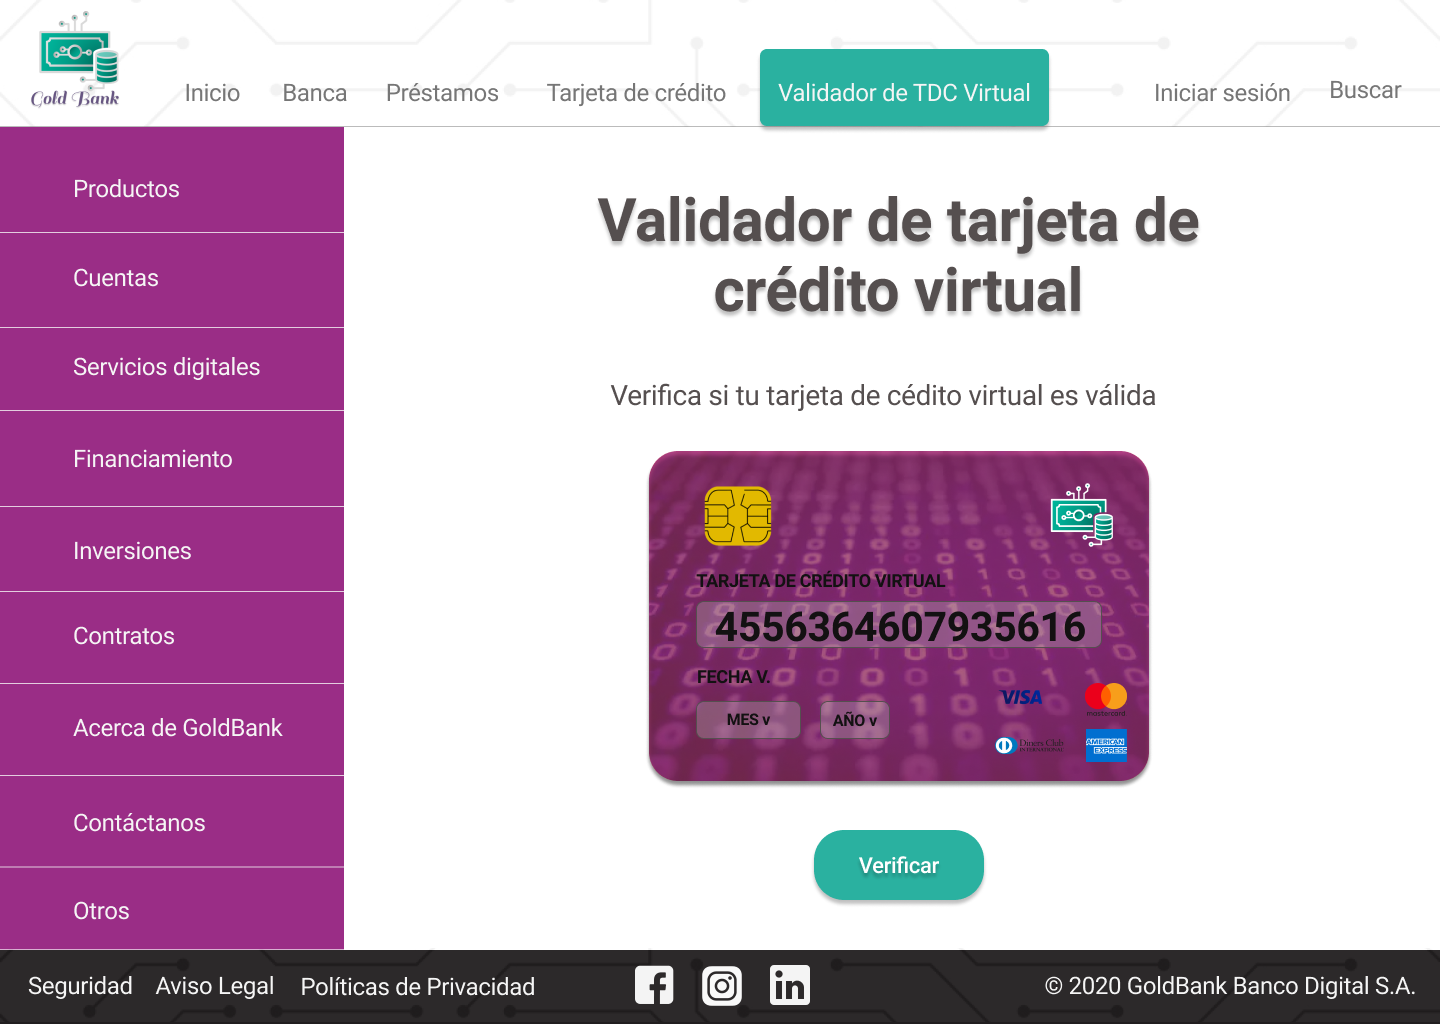
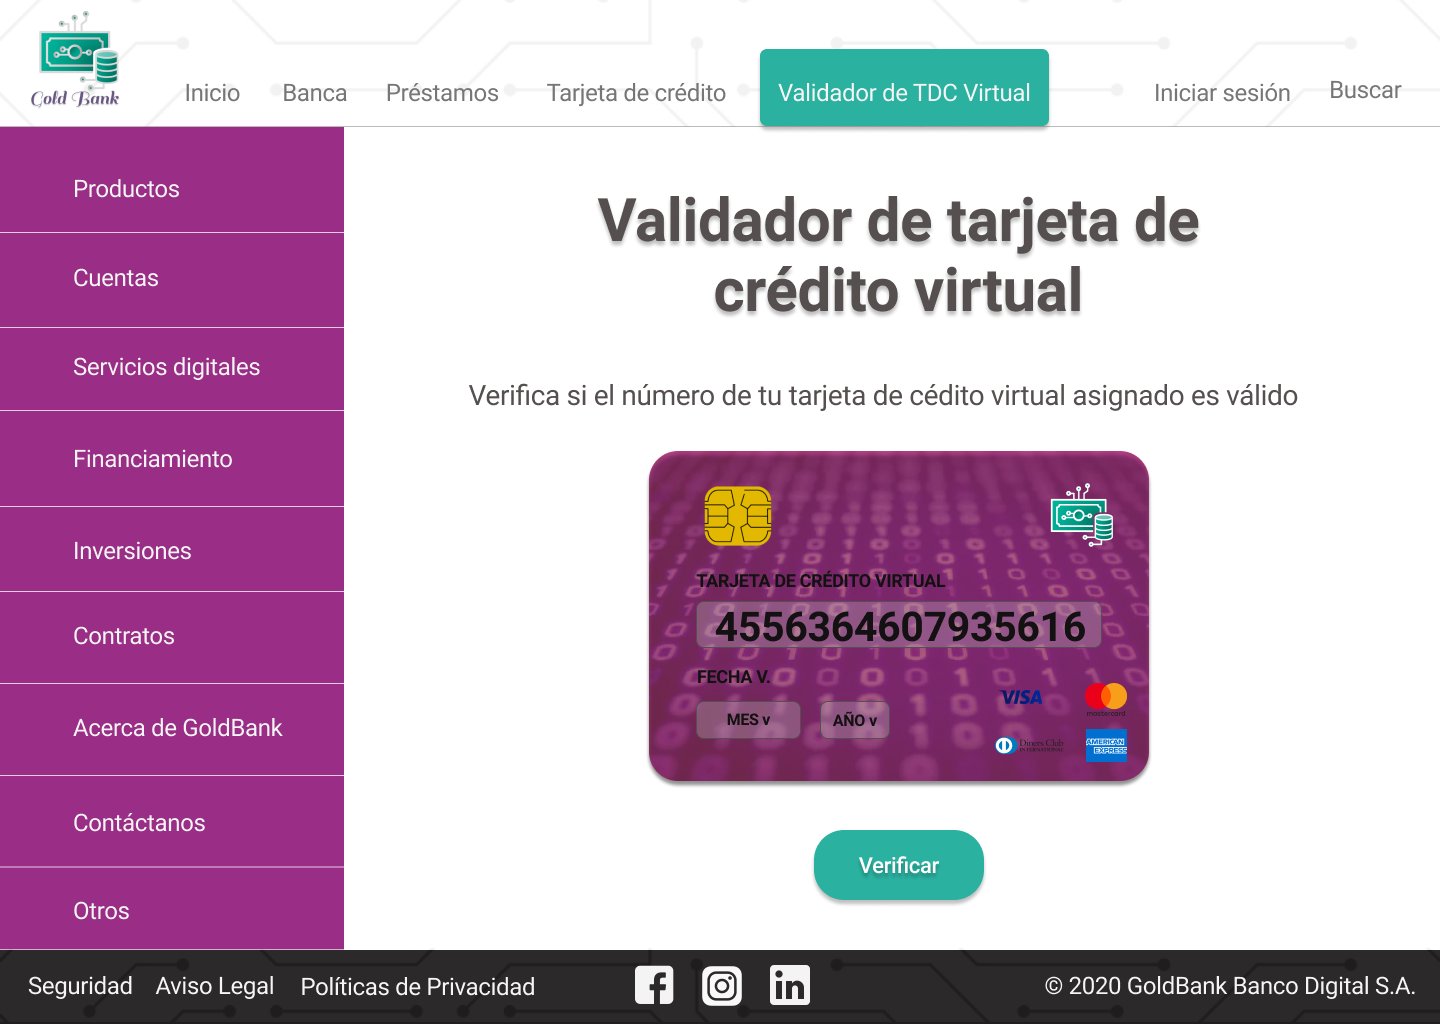
foto prototipo en papel readme

Changed region(s): [[0.3125, 0.375, 0.9062, 0.4062]]

diff --git a/src/index.html b/src/index.html
@@ -46,7 +46,7 @@
       </div>
       <h1 class="validatorTDC">Validador de Tarjeta de Crédito Virtual</h1>
       <article id="mainScreen">
-        <h4 class="verify">Verifica si tu TDC Virtual es válida</h4>
+        <h4 class="verify">Verifica si el número de tu TDC Virtual asignado es válido</h4>
         <div class="card">
           <div class="img-card">
             <img class="chip" src="./img/chip.png" alt="chip" />

diff --git a/README.md b/README.md
@@ -16,7 +16,7 @@ Además evita errores al vincular el número generado automáticamente por el si
 
 Le brinda al usuario completa libertad y autonomía al gestionar su tarjeta de credito en la página web.
 
-**Luego colocarás la foto de tu primer prototipo en papel.**
+![Imagen final del proyecto](./img_readme/prototipo.jpg)
 
 Mi primer enfoque en la solución de éste problema se desviaba un poco de la temática principal así que me sugirieron que priorizara el objetivo del proyecto, es así que cambié el la visión que tenía inicialmente y opté por aplicar la validación a tarjetas de credito virtuales.
 
